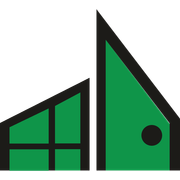
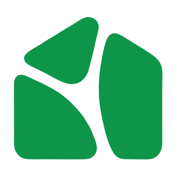
Landing and listing UI updates

diff --git a/src/components/landing/Preloader.tsx b/src/components/landing/Preloader.tsx
@@ -1,0 +1,101 @@
+'use client';
+
+import { useEffect, useRef, useState } from 'react';
+
+const MIN_MS = 1200; // never flash by too fast
+const MAX_MS = 9000; // never block the page on a slow network
+const READY_RATIO = 0.6; // share of the video buffered before we let go
+
+/*
+ * Full-screen brand-green cover with a huge "Fasana Homes" that fills with white
+ * as the hero video buffers, so the video starts smoothly instead of stuttering.
+ */
+export default function Preloader() {
+    const [progress, setProgress] = useState(0);
+    const [done, setDone] = useState(false);
+    const [gone, setGone] = useState(false);
+    const target = useRef(0);
+
+    useEffect(() => {
+        const start = performance.now();
+        const video = document.querySelector<HTMLVideoElement>('section video');
+        let ready = false;
+        let raf = 0;
+
+        const readBuffer = () => {
+            if (!video || !video.duration || !video.buffered.length) return;
+            const end = video.buffered.end(video.buffered.length - 1);
+            target.current = Math.max(target.current, Math.min(1, end / video.duration / READY_RATIO));
+        };
+        const markReady = () => {
+            ready = true;
+            target.current = 1;
+        };
+
+        if (!video || video.readyState >= 4) markReady();
+        video?.addEventListener('progress', readBuffer);
+        video?.addEventListener('canplaythrough', markReady);
+        video?.load();
+
+        // Ease the fill toward the real buffer level; creep slowly while waiting so it never looks frozen
+        let shown = 0;
+        const tick = (now: number) => {
+            const elapsed = now - start;
+            if (elapsed > MAX_MS) markReady();
+            const goal = Math.max(target.current, Math.min(0.9, elapsed / MAX_MS));
+            const capped = elapsed < MIN_MS ? Math.min(goal, elapsed / MIN_MS) : goal;
+            shown += (capped - shown) * 0.08;
+            setProgress(shown);
+            if (ready && elapsed >= MIN_MS && shown > 0.995) {
+                setProgress(1);
+                video?.play().catch(() => {});
+                setDone(true);
+                return;
+            }
+            raf = requestAnimationFrame(tick);
+        };
+        raf = requestAnimationFrame(tick);
+
+        document.documentElement.style.overflow = 'hidden';
+        return () => {
+            cancelAnimationFrame(raf);
+            video?.removeEventListener('progress', readBuffer);
+            video?.removeEventListener('canplaythrough', markReady);
+            document.documentElement.style.overflow = '';
+        };
+    }, []);
+
+    useEffect(() => {
+        if (!done) return;
+        document.documentElement.style.overflow = '';
+        const t = setTimeout(() => setGone(true), 900);
+        return () => clearTimeout(t);
+    }, [done]);
+
+    if (gone) return null;
+
+    const pct = Math.round(progress * 100);
+    return (
+        <div
+            role="progressbar"
+            aria-label="Loading Fasana Homes"
+            aria-valuemin={0}
+            aria-valuemax={100}
+            aria-valuenow={pct}
+            className={`fixed inset-0 z-[100] flex items-center justify-center overflow-hidden bg-[var(--color-green-500)] transition-transform duration-[900ms] ease-[cubic-bezier(0.83,0,0.17,1)] ${done ? '-translate-y-full pointer-events-none' : 'translate-y-0'}`}
+        >
+            <div className="relative select-none whitespace-nowrap font-[family-name:var(--font-bricolage-loaded)] font-semibold leading-none tracking-[-0.04em] text-[clamp(64px,15vw,320px)]">
+                {/* Dull base */}
+                <span className="block text-white/20">Fasana Homes</span>
+                {/* White fill, revealed left to right */}
+                <span
+                    aria-hidden="true"
+                    className="absolute inset-0 block text-white"
+                    style={{ clipPath: `inset(0 ${100 - progress * 100}% 0 0)` }}
+                >
+                    Fasana Homes
+                </span>
+            </div>
+        </div>
+    );
+}

diff --git a/src/components/landing/LandingNavbar.tsx b/src/components/landing/LandingNavbar.tsx
@@ -1,5 +1,6 @@
 'use client';
 
+import Logo from '@/components/brand/Logo';
 import { useState, useEffect, useRef } from 'react';
 import Link from 'next/link';
 import { Menu, X } from 'lucide-react';
@@ -48,15 +49,11 @@ export default function LandingNavbar({ variant = 'landing' }: LandingNavbarProp
             {/* Navbar */}
             <div className="px-3 sm:px-5 lg:px-8 pt-3">
             <nav
-                className={`${'mx-auto w-full max-w-[var(--content-max)]'} rounded-[12px] border overflow-hidden transition-[background-color,border-color,box-shadow] duration-300 ease-in-out bg-white/35 backdrop-blur-2xl backdrop-saturate-[1.8] border-white/20 shadow-[0_8px_32px_rgba(10,13,18,0.10),inset_0_1px_0_rgba(255,255,255,0.35)]`}
+                className={`${'mx-auto w-full max-w-[var(--content-max)]'} rounded-[12px] border overflow-hidden transition-[background-color,border-color,box-shadow] duration-300 ease-in-out bg-white/60 backdrop-blur-2xl backdrop-saturate-[1.8] border-white/20 shadow-[0_8px_32px_rgba(10,13,18,0.10),inset_0_1px_0_rgba(255,255,255,0.35)]`}
             >
                 <div className="h-[var(--navbar-height)] flex items-center justify-between lg:grid lg:grid-cols-[1fr_auto_1fr] gap-6 xl:gap-8 pl-5 pr-2.5">
                     <Link href="/" className="relative shrink-0 flex items-center justify-self-start h-[22px] sm:h-[26px]" onClick={() => setIsOpen(false)}>
-                        <img
-                            src="/brand/logo-dark.png"
-                            alt="Fasana Homes"
-                            className={`h-full w-auto object-contain transition-opacity duration-300 opacity-100`}
-                        />
+                        <Logo markClassName="h-[26px] sm:h-[31px]" className="h-full gap-3 text-[20px] sm:text-[22px] text-[color:var(--text-primary)]" />
                     </Link>
 
                     <div className="hidden lg:flex items-center gap-1 xl:gap-2">

diff --git a/src/components/ui/ScrollReveal.tsx b/src/components/ui/ScrollReveal.tsx
@@ -25,18 +25,25 @@ export default function ScrollReveal() {
         style.textContent = `:is(${TARGETS}):not(${EXCLUDE}) { opacity: 0; }`;
         document.head.appendChild(style);
 
-        const show = (el: Element, duration: number) =>
-            el.animate([HIDDEN, SHOWN], {
+        const show = (el: HTMLElement, duration: number) => {
+            const anim = el.animate([HIDDEN, SHOWN], {
                 duration,
                 easing: 'cubic-bezier(0.22, 1, 0.36, 1)',
                 fill: 'forwards',
             });
+            // Hand control back once done: a held WAAPI transform would override the
+            // element's own CSS animations (e.g. the marquee track)
+            anim.onfinish = () => {
+                el.style.opacity = '1';
+                anim.cancel();
+            };
+        };
 
         const io = new IntersectionObserver(
             (entries) => {
                 for (const entry of entries) {
                     if (!entry.isIntersecting) continue;
-                    show(entry.target, 800);
+                    show(entry.target as HTMLElement, 800);
                     io.unobserve(entry.target);
                 }
             },
@@ -46,7 +53,7 @@ export default function ScrollReveal() {
 
         const bound = new WeakSet<Element>();
         const scan = () => {
-            document.querySelectorAll(TARGETS).forEach((el) => {
+            document.querySelectorAll<HTMLElement>(TARGETS).forEach((el) => {
                 if (bound.has(el) || el.closest(EXCLUDE)) return;
                 bound.add(el);
                 // Fixed/sticky chrome like navbars and trays shows immediately

diff --git a/src/components/brand/Logo.tsx b/src/components/brand/Logo.tsx
@@ -1,0 +1,27 @@
+import { cn } from '@/lib/utils';
+
+/** Fasana Homes mark (high-res raster of the brand icon). Size it with a height class. */
+export function LogoMark({ className, title }: { className?: string; title?: string }) {
+    return (
+        // eslint-disable-next-line @next/next/no-img-element
+        <img
+            src="/brand/logo-icon.png"
+            alt={title ?? ''}
+            aria-hidden={title ? undefined : true}
+            draggable={false}
+            className={cn('shrink-0 w-auto object-contain', className)}
+        />
+    );
+}
+
+/** Mark + "Fasana Homes" wordmark. Height drives the size; the text inherits color. */
+export default function Logo({ className, markClassName }: { className?: string; markClassName?: string }) {
+    return (
+        <span className={cn('inline-flex items-center gap-2 h-[26px]', className)}>
+            <LogoMark className={cn('h-full w-auto', markClassName)} />
+            <span className="font-[family-name:var(--font-bricolage-loaded)] font-semibold tracking-[-0.02em] leading-none text-[length:1em] whitespace-nowrap">
+                Fasana Homes
+            </span>
+        </span>
+    );
+}

diff --git a/src/components/admin/Sidebar.tsx b/src/components/admin/Sidebar.tsx
@@ -1,5 +1,6 @@
 'use client';
 
+import { LogoMark } from '@/components/brand/Logo';
 import Link from 'next/link';
 import Image from 'next/image';
 import { usePathname } from 'next/navigation';
@@ -61,13 +62,7 @@ export function Sidebar({ leadsBadge = 0, viewingsBadge = 0 }: SidebarProps) {
                 {/* Header */}
                 <div className="flex items-center gap-3 px-6 py-5">
                     <Link href="/" className="flex items-center gap-3 flex-1 group">
-                        <Image
-                            src="/brand/logo-icon.png"
-                            alt="Fasana Homes"
-                            width={32}
-                            height={32}
-                            className="object-contain group-hover:scale-105 transition-transform"
-                        />
+                        <LogoMark title="Fasana Homes" className="h-8 w-auto group-hover:scale-105 transition-transform" />
                         <div>
                             <h2 className="text-sm font-semibold">FASANA</h2>
                             <p className="text-xs text-muted-foreground">HOMES</p>

diff --git a/src/components/marketing/Navbar.tsx b/src/components/marketing/Navbar.tsx
@@ -1,5 +1,6 @@
 'use client';
 
+import { LogoMark } from '@/components/brand/Logo';
 import { useState, useEffect } from 'react';
 import Link from 'next/link';
 import Image from 'next/image';
@@ -36,13 +37,7 @@ export default function Navbar() {
                 <div className="flex h-20 items-center justify-between">
                     {/* Logo */}
                     <Link href="/" className="flex items-center gap-[9px] group">
-                        <Image
-                            src="/brand/logo-icon.png"
-                            alt="Fasana Homes"
-                            width={42}
-                            height={50}
-                            className="shrink-0 object-contain"
-                        />
+                        <LogoMark title="Fasana Homes" className="h-[50px] w-auto" />
                         <div className="flex flex-col">
                             <span className="text-[16px] font-bold tracking-tight text-white leading-tight">
                                 FASANA

diff --git a/src/app/(auth)/login/page.tsx b/src/app/(auth)/login/page.tsx
@@ -1,5 +1,6 @@
 'use client';
 
+import Logo from '@/components/brand/Logo';
 import { useState } from 'react';
 import { useRouter } from 'next/navigation';
 import { Eye, EyeOff, Loader2 } from 'lucide-react';
@@ -77,11 +78,7 @@ export default function LoginPage() {
                 {/* Logo */}
                 <div className="text-center mb-10">
                     <Link href="/" className="inline-block mb-6">
-                        <img
-                            src="/brand/logo-dark.png"
-                            alt="Fasana Homes"
-                            className="h-[36px] sm:h-[40px] w-auto object-contain mx-auto"
-                        />
+                        <Logo className="h-[36px] sm:h-[40px] text-[28px] sm:text-[32px] text-[color:var(--text-primary)]" />
                     </Link>
                     <h1 className="text-[length:var(--typeface-heading-h3)] font-normal text-[color:var(--on-surface-default)]">
                         Welcome back

diff --git a/src/components/marketing/Footer.tsx b/src/components/marketing/Footer.tsx
@@ -1,4 +1,5 @@
 import Link from 'next/link';
+import Logo from '@/components/brand/Logo';
 import { ArrowRight } from '@phosphor-icons/react/dist/ssr';
 import { createPublicClient } from '@/lib/supabase/server';
 import { PUBLIC_STATUSES } from '@/lib/properties';
@@ -118,7 +119,7 @@ export default async function Footer() {
                     {/* Brand + CTA */}
                     <div className="flex flex-col gap-8">
                         <Link href="/" className="w-fit">
-                            <img src="/brand/logo-dark.png" alt="Fasana Homes" className="h-[36px] w-auto object-contain" />
+                            <Logo className="h-[36px] text-[28px] text-[color:var(--text-primary)]" />
                         </Link>
                         <p className="max-w-[320px] text-[length:var(--typeface-heading-h4)] leading-snug text-[color:var(--on-surface-default)]">
                             Find your next home in Punjab and across Pakistan.

diff --git a/src/app/(landing)/page.tsx b/src/app/(landing)/page.tsx
@@ -8,6 +8,7 @@ import LandingBrowse from '@/components/landing/LandingBrowse';
 import LandingFAQ from '@/components/landing/LandingFAQ';
 import LandingTestimonials from '@/components/landing/LandingTestimonials';
 import LandingCTA from '@/components/landing/LandingCTA';
+import Preloader from '@/components/landing/Preloader';
 import Footer from '@/components/marketing/Footer';
 import type { Metadata } from 'next';
 
@@ -61,6 +62,7 @@ export default async function LandingPage() {
         <div className="flex flex-col items-center relative">
             <LandingNavbar />
 
+            <Preloader />
             <LandingSearchHero cities={cities} types={types} />
 
             <LandingListingRow title="Featured properties" properties={featured} viewAllHref="/properties" />

diff --git a/src/components/landing/HeroVideo.tsx b/src/components/landing/HeroVideo.tsx
@@ -12,7 +12,7 @@ export default function HeroVideo() {
                 muted
                 loop
                 playsInline
-                preload="metadata"
+                preload="auto"
                 poster={POSTER_SRC}
                 aria-hidden="true"
                 className="absolute inset-0 w-full h-full object-cover"
@@ -24,7 +24,7 @@ export default function HeroVideo() {
             </video>
 
             {/* Dark overlay for text readability */}
-            <div className="absolute inset-0 bg-black/35" />
+            <div className="absolute inset-0 bg-black/55" />
         </div>
     );
 }

diff --git a/src/app/globals.css b/src/app/globals.css
@@ -769,3 +769,4 @@
 @container (max-width: 340px) {
     .card-stats .card-stat-icon { display: none; }
 }
+
